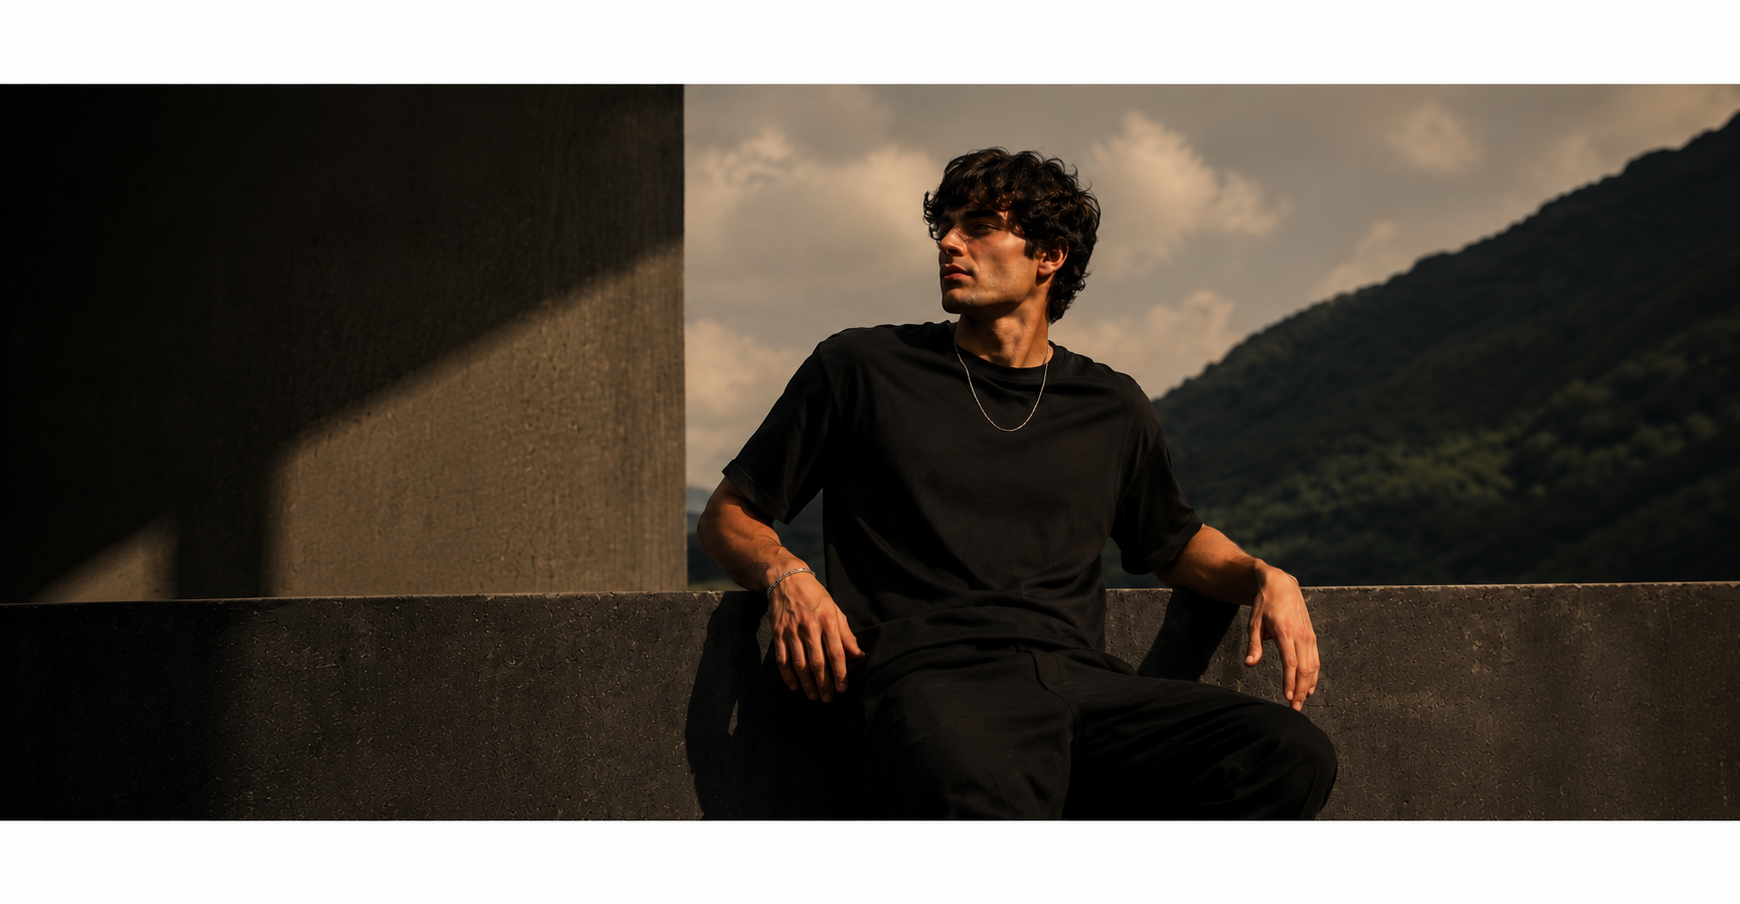
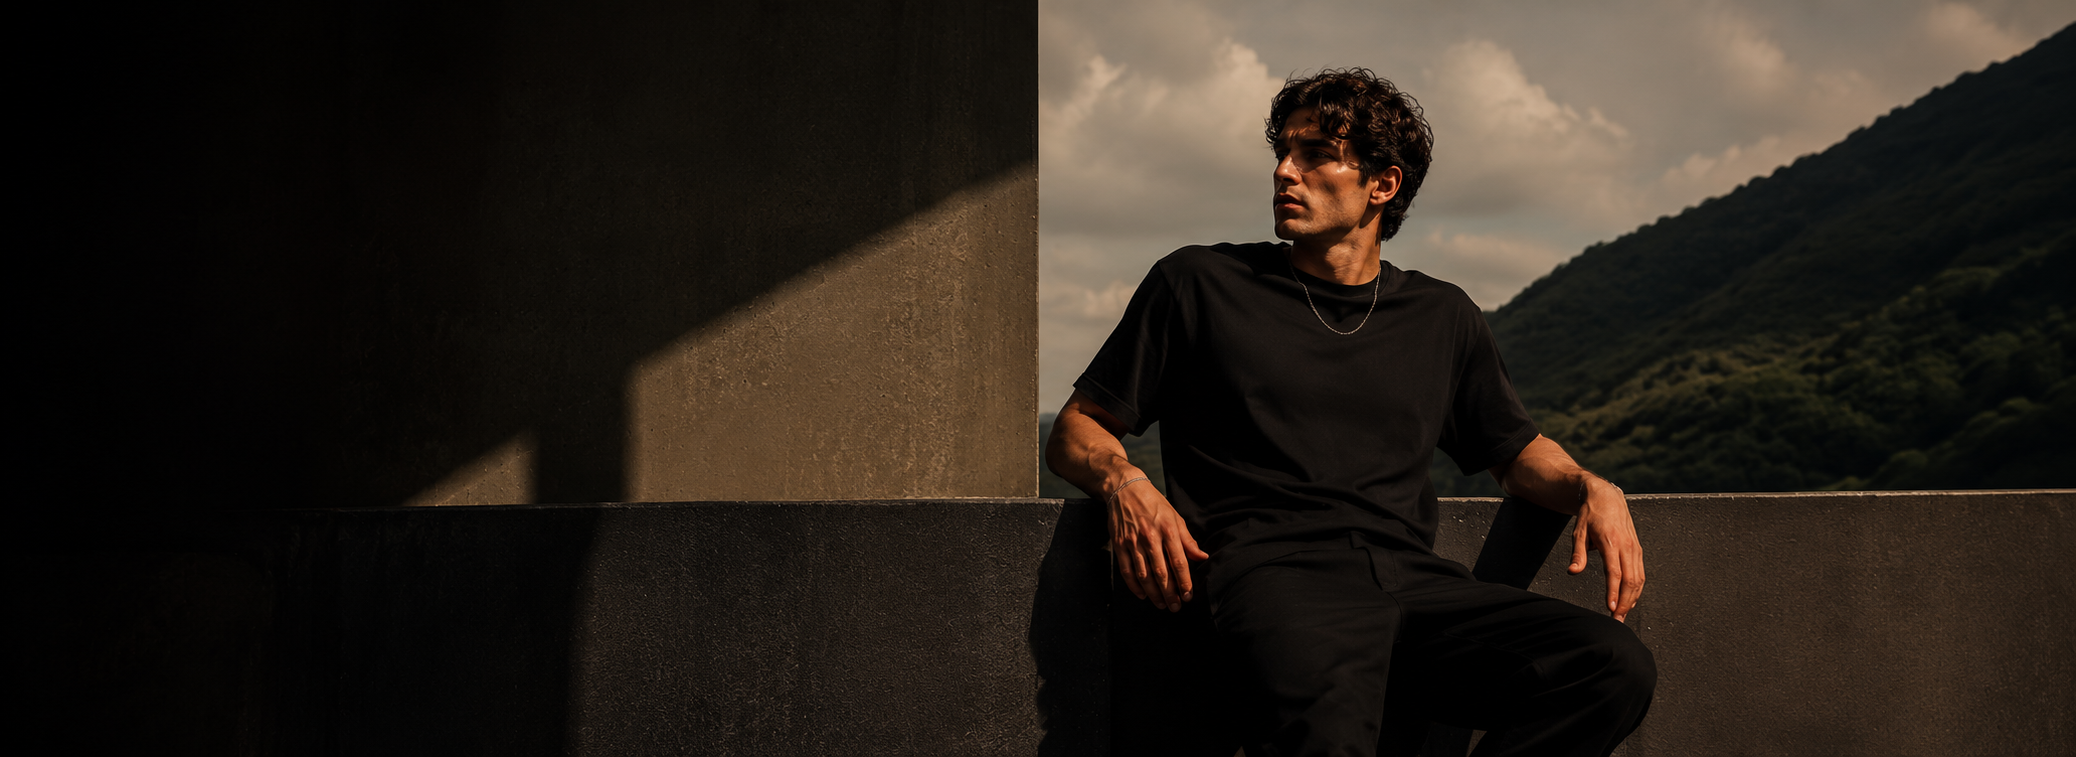
sla

diff --git a/src/App.css b/src/App.css
@@ -1,7 +1,9 @@
 @import url('https://fonts.googleapis.com/css2?family=Imperial+Script&family=Montserrat:ital,wght@0,100..900;1,100..900&family=Prata&family=Sekuya&display=swap');
+@import url('https://fonts.googleapis.com/css2?family=Dancing+Script:wght@400..700&family=Imperial+Script&family=Montserrat:ital,wght@0,100..900;1,100..900&family=Prata&family=Sekuya&display=swap');
 *{
     margin: 0;
     padding: 0;
+    font-family: "Montserrat", sans-serif;
 }
 body{
     margin: 0;
@@ -69,35 +71,89 @@ body{
 .carrinho{ 
     font-size: 2rem; 
 }
-.navbar{
-    background-color: #d3e9ef;
+.divimageminicial{
+    background-image: url("./assets/fotoinicial.png");
+    background-size: cover;
     width: 100%;
-    height: 2rem;
-    padding-bottom: 0;
-    position: relative;
-    z-index: 2;
-    border-bottom: 1px solid transparent;
-}
-.sidebardiv{
-    width: 20rem;
-    height: 30rem;
-    border: 1px solid black;
-    background-color: #fff;         
-    padding-top: 0;
-    position: absolute;
-    top: calc(2rem + 1px);
-    z-index: 1;
-}
-.iconesidebar{
-   width: 2rem;
+    height: clamp(150px, 45vw, 500px);
 }
 .divimageminicial{
-    height: 10rem;
+color: #fff;
+position: relative;
+
 }
-.fotoinicial{
+.divimageminicial h1{
+    font-family: "Prata", serif;
+    font-weight: normal;
+    font-size: clamp(16px, 4vw, 3rem);
+}
+.divimageminicial p{
+font-size: clamp(8px, 2vw, 1.5rem);
+}
+.divimageminicial h1{
+position: relative;
+left: 15%;
+top: 15%;
+}
+.divimageminicial p{
+position: relative;
+left: 15%;
+top: 15%;
+}
+.categorias{
+    display: flex;
+    align-items: center;
+    justify-content: center;
+    gap: 3vw;
     width: 100%;
+    height: 7vh;
+    font-weight: 300;
+    font-size: clamp(8px, 4vw, 2rem);
+    letter-spacing: 0.15rem;
 }
-.areacamisas{
+.linha{
+    width: 10%;
+    height: 1px;
+    background-color: black;
+}
+.categorias p{
+    margin: 0;
+}
+.cards-categoria{
+    display: flex;
+    align-items: center;
+    justify-content: center;
+    gap: 4vw;
+    height: clamp(100px,10vw, 350px);
+}
+.cards-categoria :hover{
+    transform: scale(1.05);
+}
+
+.card1 ,.card2, .card3 ,.card4{
+    transition: transform 1s ease;
+    height: 12vh;
+    width: 17vw;
+    border: 1px solid rgba(0, 0, 0, 0.349);
+    border-radius: 20px;
+    background-size: 130%;
+    background-position: center;
+    background-repeat: no-repeat;
+}
+.card1{
+    background-image: url(./assets/categoria-masculino.png);
+}
+.card2{
+    background-image: url(./assets/categoria-feminina.png);
+}
+.card3{
+    background-image: url(./assets/calcados.png);
+}
+.card4{
+    background-image: url(./assets/acessorios.png);
+}
+
+/* .areacamisas{
     display:flex;
     border-radius: 30px;
     grid-template-columns: 1fr 1fr 1fr 1fr;
@@ -168,4 +224,4 @@ body{
 .carrinho{
     font-size: 1rem;
     }
-}
+} */

diff --git a/src/pagecontent.jsx b/src/pagecontent.jsx
@@ -1,6 +1,9 @@
 import "./App.css";
 import modeloinicial from './assets/fotoinicial.png'
-import camisa1 from './assets/camisa1.png'
+import masculino from './assets/categoria-masculino.png'
+import feminino from './assets/categoria-feminina.png'
+import acessorios from './assets/acessorios.png'
+import calcados from './assets/calcados.png'
 
 function PageContent(){
 
@@ -8,23 +11,23 @@ function PageContent(){
     <div className="pagecontent">
 
     <div className="divimageminicial">
-        <img src={modeloinicial} alt="foto" className="fotoinicial"/>
-        </div>
-<hr />
-        <div className="areacamisas">
+        <h1>Somos a Única <br /> com estilo para você.</h1>
+        <p>Roupas que combinam com sua essência.</p>
+    </div>
+<div className="categorias">
+    <div className="linha"></div>
+<p>Categorias</p>
+<div className="linha"></div>
+</div>
+<div className="cards-categoria">
 
-            <div className="card">
-                <div>
-                <img src ={camisa1} height={300} width={380}/>
-                  </div>
-                <div className="textodosprodutos">
-                <p>Camisa marrom sem estampa</p>
-                <p className="preco">Preço: R$99,99</p>
-                </div>
-            </div>
-            
-        </div>
-        
+<div className="card1"></div>
+<div className="card2"></div>
+<div className="card3"></div>
+<div className="card4"></div>
+
+</div>
+       
     </div>
             
  )

diff --git a/src/App.jsx b/src/App.jsx
@@ -1,13 +1,11 @@
 import "./App.css";
 import Header from './header'
-import Navbar from "./navbar";
 import PageContent from "./pagecontent";
 
 function App(){
   return(
  <div>
 <Header/>
-<Navbar/>
 <PageContent/>
  </div>
 